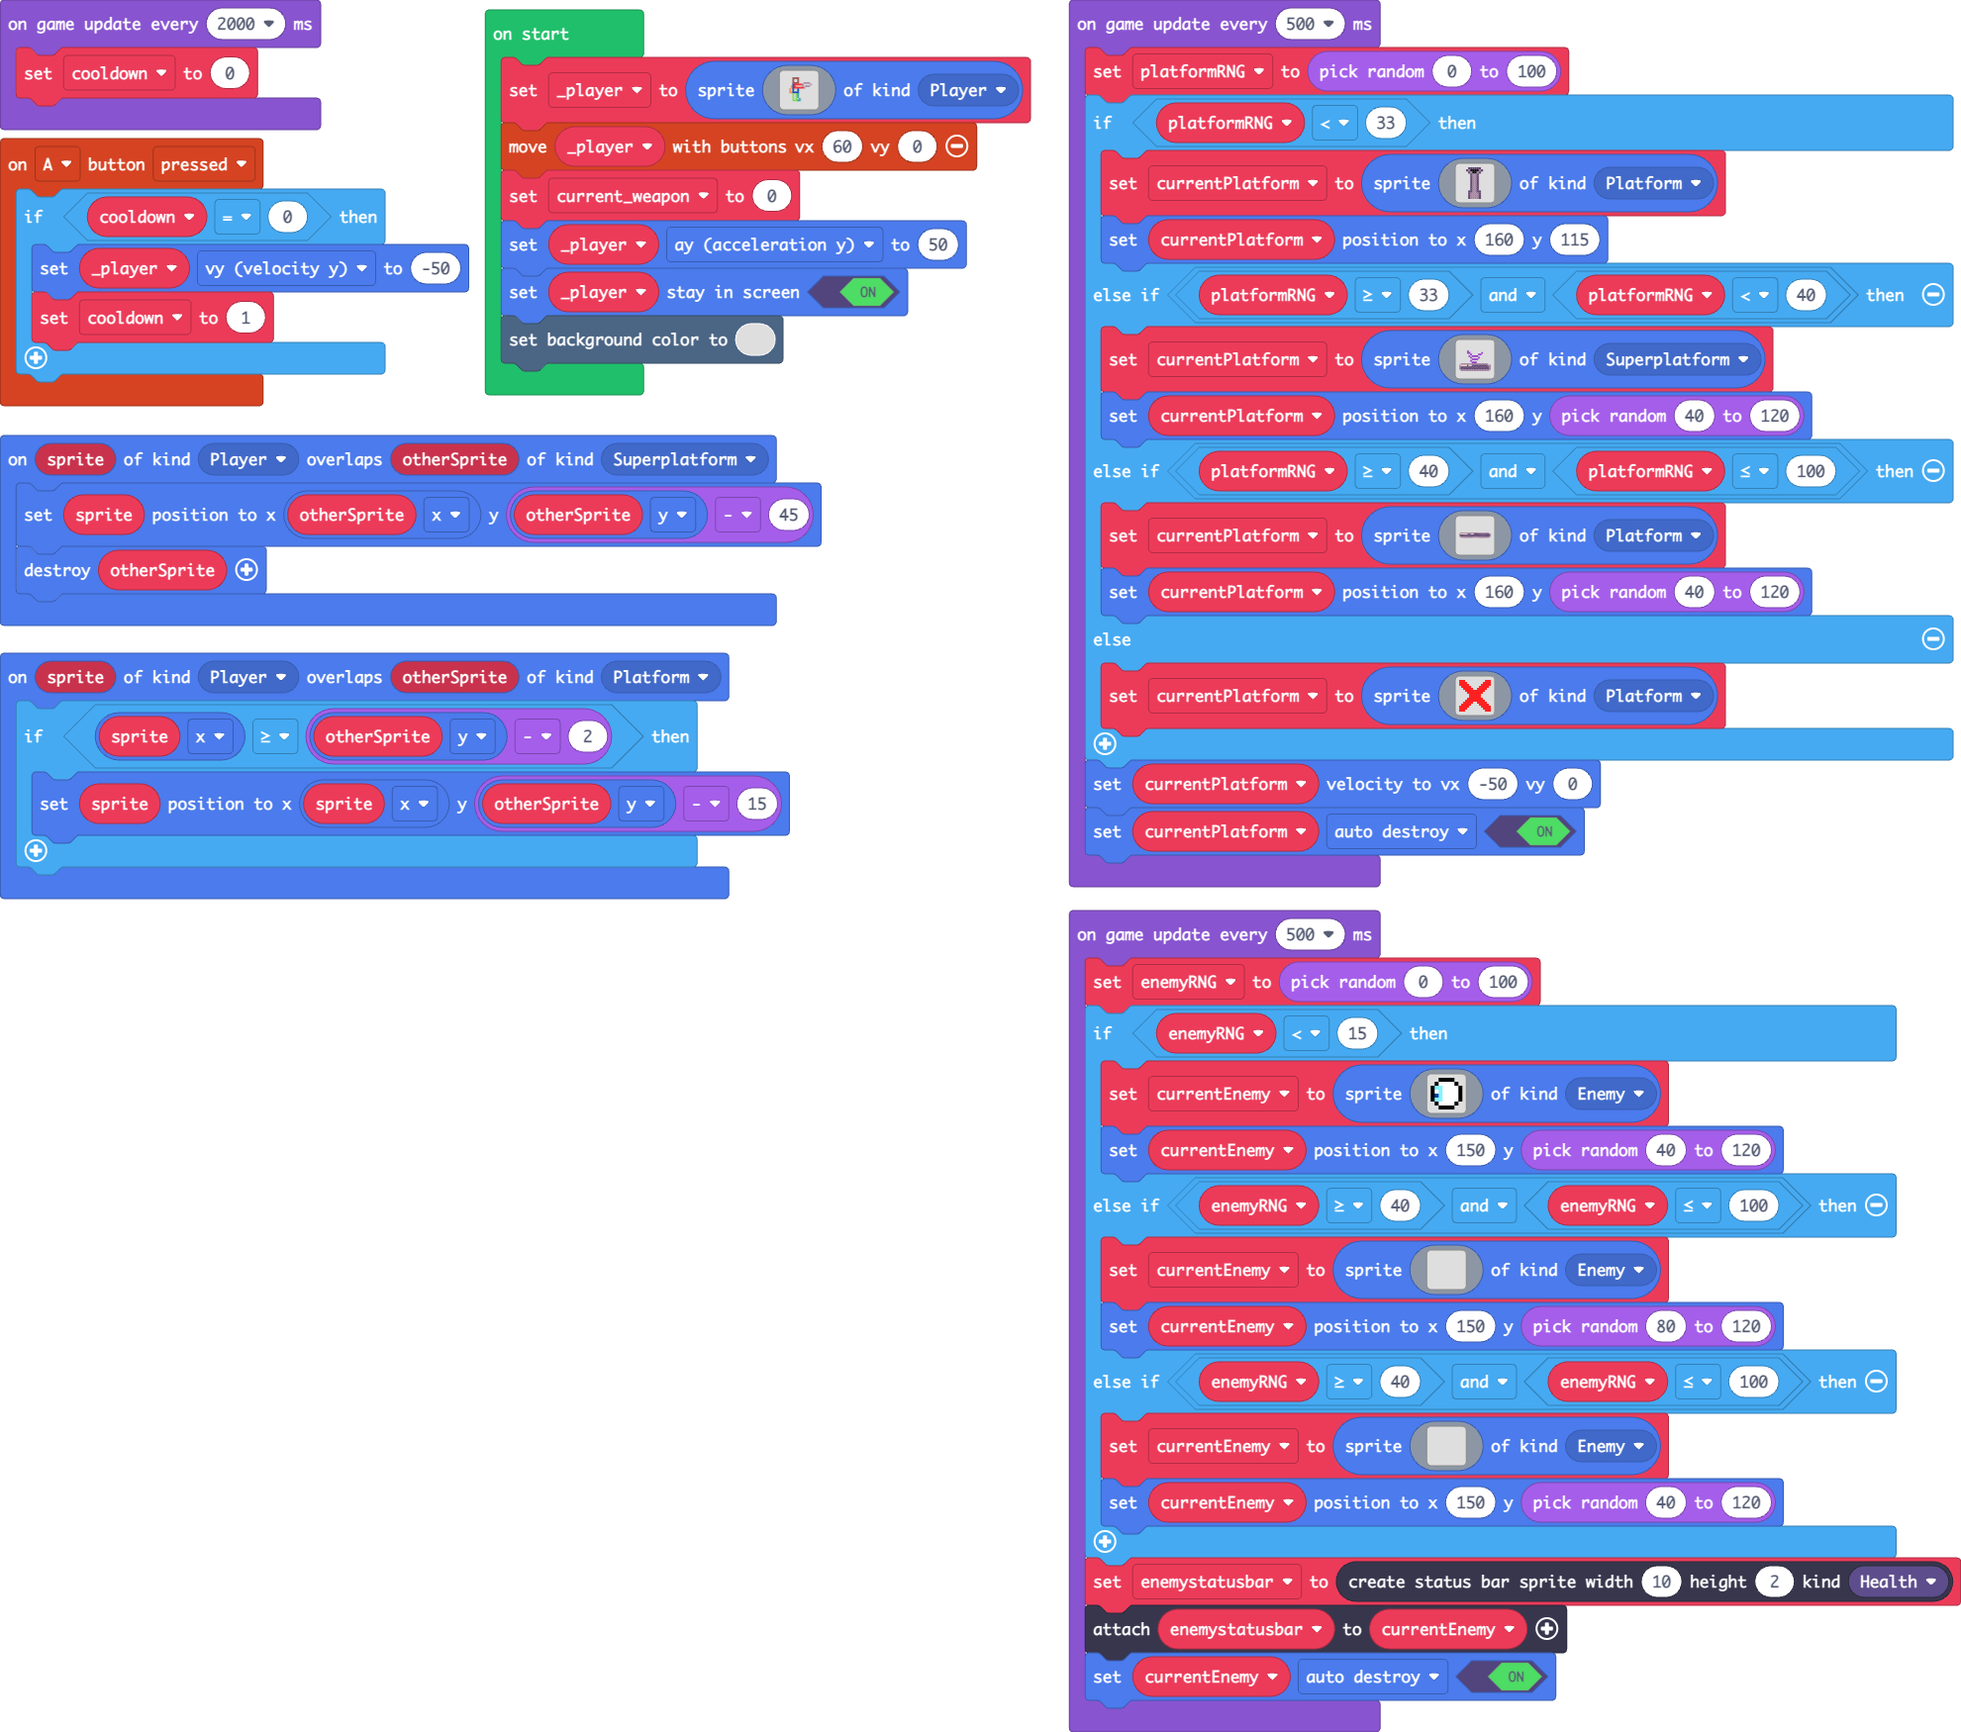
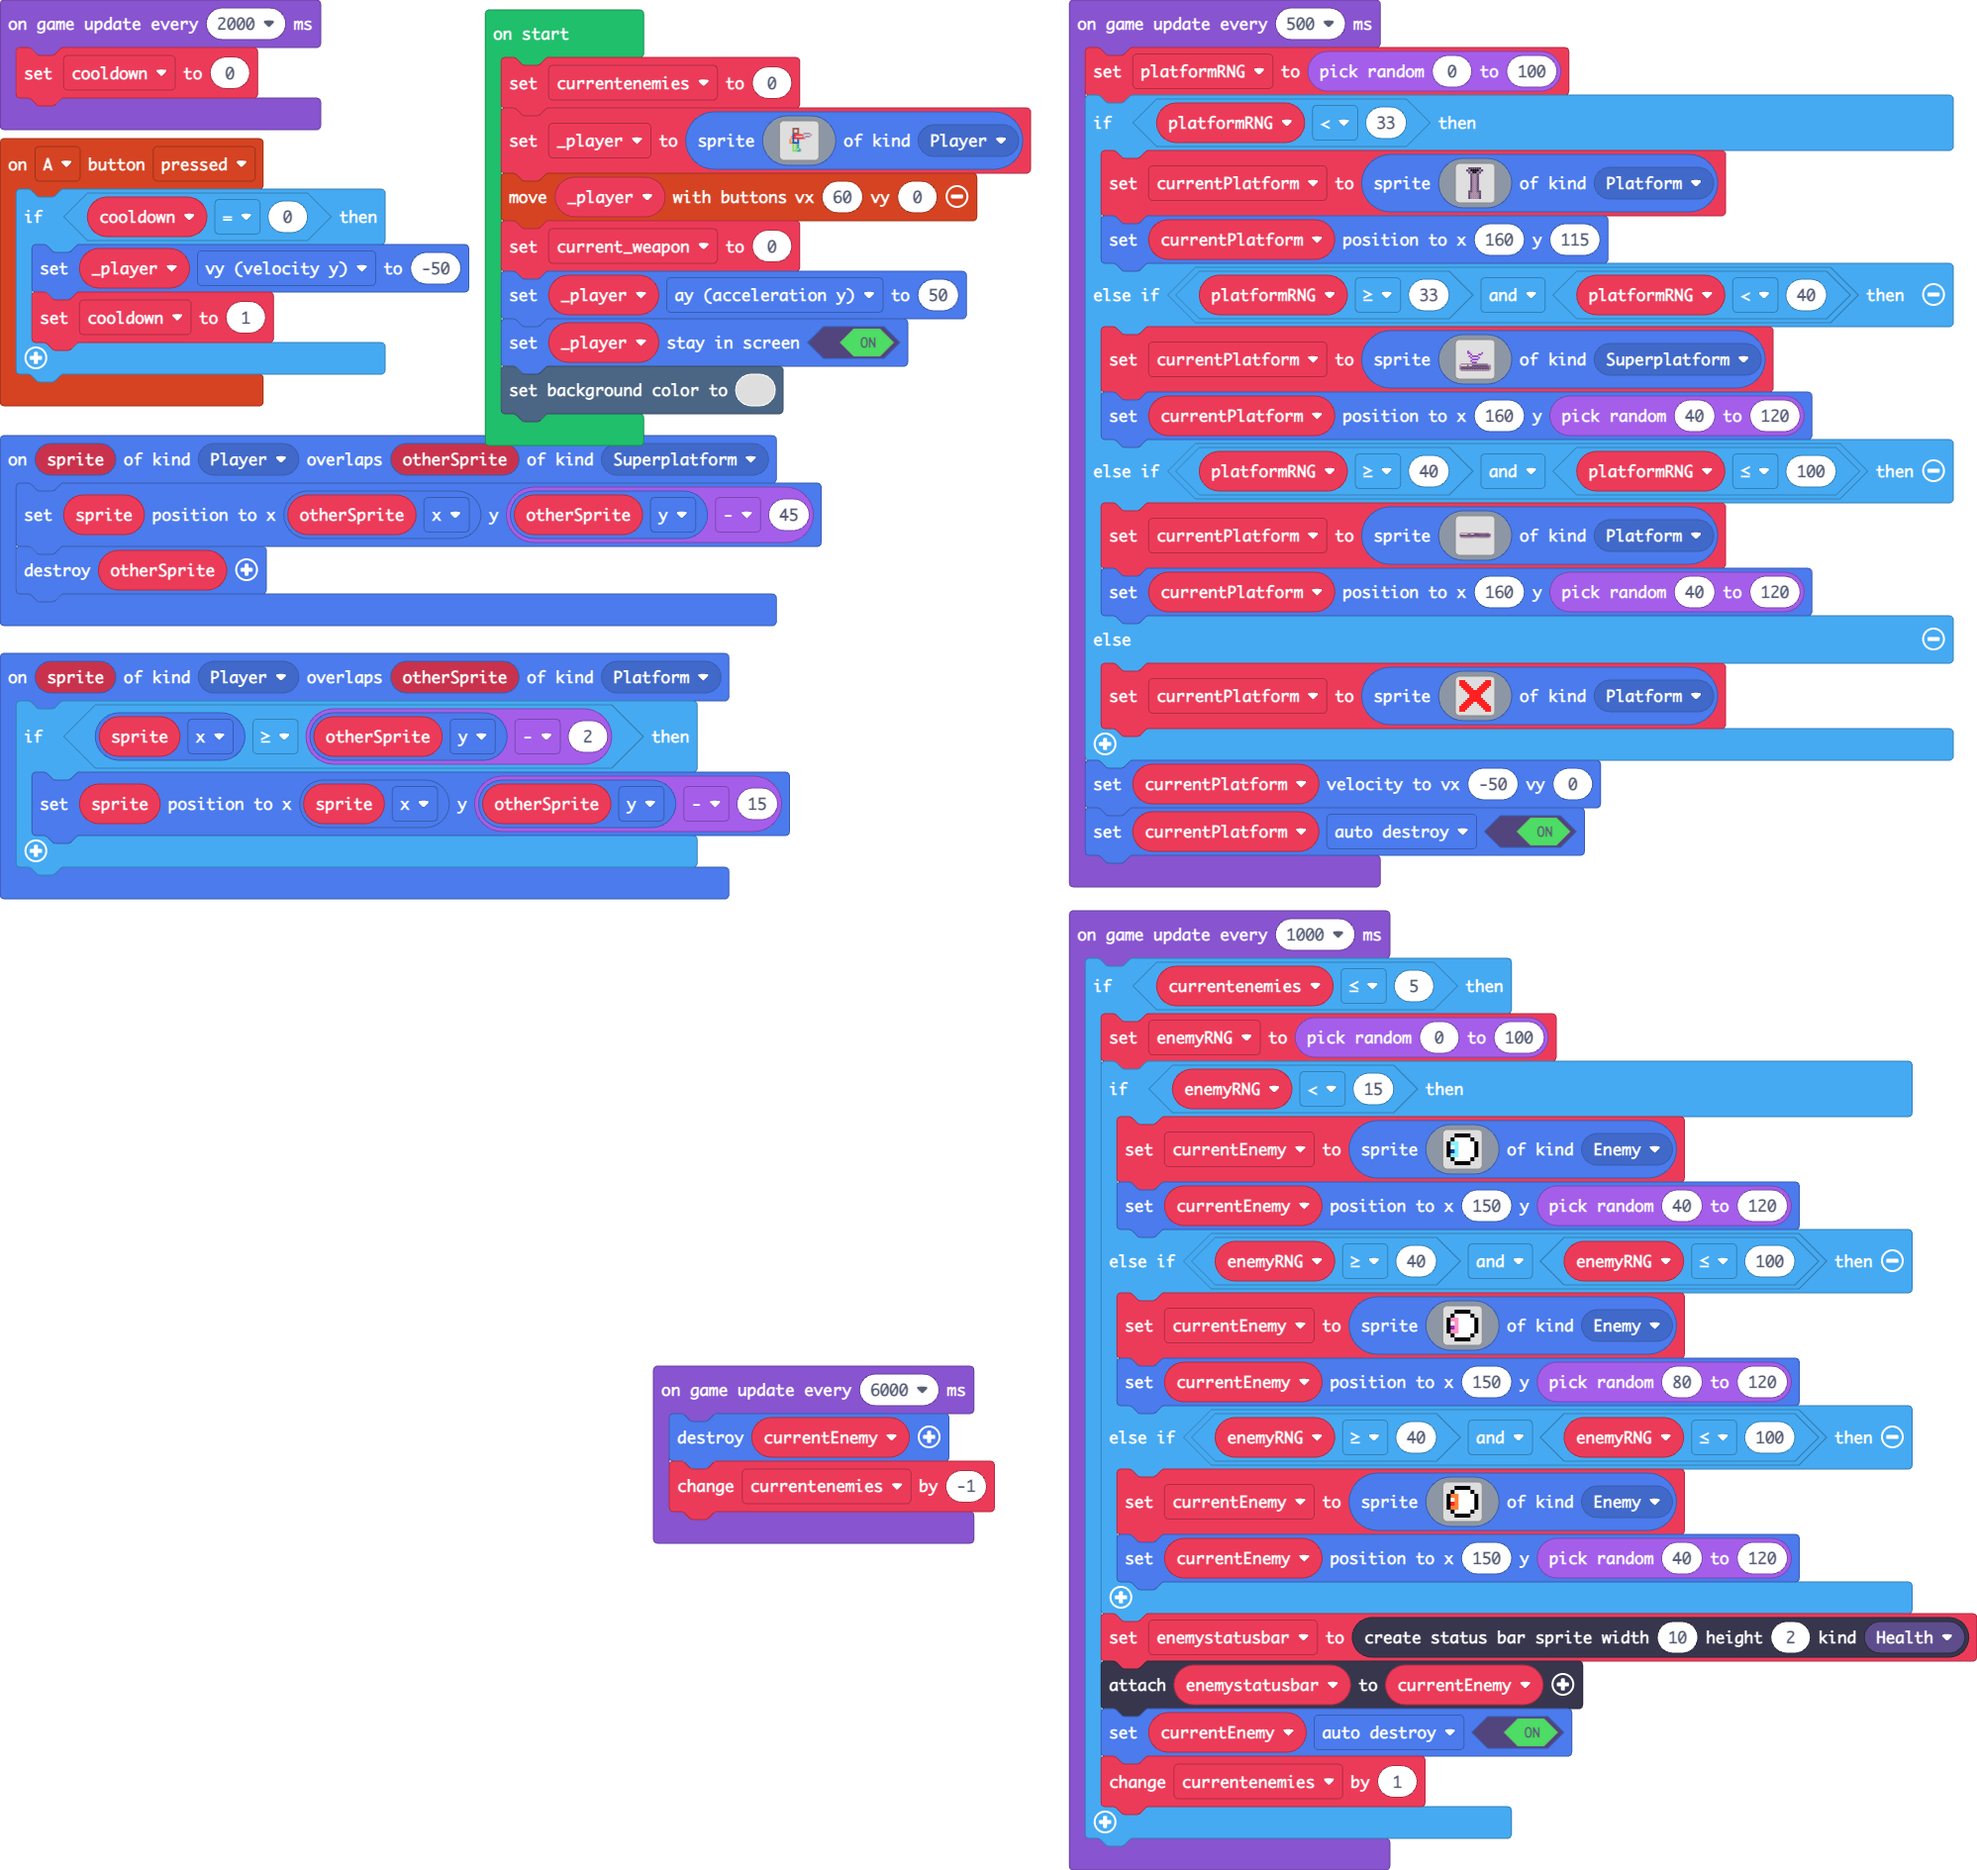
Update main.blocks, main.ts

diff --git a/main.ts b/main.ts
@@ -17,13 +17,14 @@ sprites.onOverlap(SpriteKind.Player, SpriteKind.Superplatform, function (sprite,
     sprite.setPosition(otherSprite.x, otherSprite.y - 45)
     sprites.destroy(otherSprite)
 })
+let currentPlatform: Sprite = null
+let platformRNG = 0
 let enemystatusbar: StatusBarSprite = null
 let currentEnemy: Sprite = null
 let enemyRNG = 0
-let currentPlatform: Sprite = null
-let platformRNG = 0
 let cooldown = 0
 let _player: Sprite = null
+let currentenemies = 0
 _player = sprites.create(assets.image`player_gun1`, SpriteKind.Player)
 controller.moveSprite(_player, 60, 0)
 let current_weapon = 0
@@ -32,6 +33,56 @@ _player.setStayInScreen(true)
 scene.setBackgroundColor(0)
 game.onUpdateInterval(2000, function () {
     cooldown = 0
+})
+game.onUpdateInterval(1000, function () {
+    if (currentenemies <= 5) {
+        enemyRNG = randint(0, 100)
+        if (enemyRNG < 15) {
+            currentEnemy = sprites.create(img`
+                . . f f f f . . 
+                . f 1 1 1 1 f . 
+                f 9 9 1 1 1 1 f 
+                f 1 9 1 1 1 1 f 
+                f 8 9 1 1 1 1 f 
+                f 9 9 1 1 1 1 f 
+                . f 1 1 1 1 f . 
+                . . f f f f . . 
+                `, SpriteKind.Enemy)
+            currentEnemy.setPosition(150, randint(40, 120))
+        } else if (enemyRNG >= 40 && enemyRNG <= 100) {
+            currentEnemy = sprites.create(img`
+                . . f f f f . . 
+                . f 1 1 1 1 f . 
+                f 3 3 1 1 1 1 f 
+                f 1 3 1 1 1 1 f 
+                f a 3 1 1 1 1 f 
+                f 3 3 1 1 1 1 f 
+                . f 1 1 1 1 f . 
+                . . f f f f . . 
+                `, SpriteKind.Enemy)
+            currentEnemy.setPosition(150, randint(80, 120))
+        } else if (enemyRNG >= 40 && enemyRNG <= 100) {
+            currentEnemy = sprites.create(img`
+                . . f f f f . . 
+                . f 1 1 1 1 f . 
+                f 4 4 1 1 1 1 f 
+                f 1 4 1 1 1 1 f 
+                f 2 4 1 1 1 1 f 
+                f 4 4 1 1 1 1 f 
+                . f 1 1 1 1 f . 
+                . . f f f f . . 
+                `, SpriteKind.Enemy)
+            currentEnemy.setPosition(150, randint(40, 120))
+        }
+        enemystatusbar = statusbars.create(10, 2, StatusBarKind.Health)
+        enemystatusbar.attachToSprite(currentEnemy)
+        currentEnemy.setFlag(SpriteFlag.AutoDestroy, true)
+        currentenemies += 1
+    }
+})
+game.onUpdateInterval(6000, function () {
+    sprites.destroy(currentEnemy)
+    currentenemies += -1
 })
 game.onUpdateInterval(500, function () {
     platformRNG = randint(0, 100)
@@ -49,63 +100,4 @@ game.onUpdateInterval(500, function () {
     }
     currentPlatform.setVelocity(-50, 0)
     currentPlatform.setFlag(SpriteFlag.AutoDestroy, true)
-})
-game.onUpdateInterval(500, function () {
-    enemyRNG = randint(0, 100)
-    if (enemyRNG < 15) {
-        currentEnemy = sprites.create(img`
-            . . f f f f . . 
-            . f 1 1 1 1 f . 
-            f 9 9 1 1 1 1 f 
-            f 1 9 1 1 1 1 f 
-            f 8 9 1 1 1 1 f 
-            f 9 9 1 1 1 1 f 
-            . f 1 1 1 1 f . 
-            . . f f f f . . 
-            `, SpriteKind.Enemy)
-        currentEnemy.setPosition(150, randint(40, 120))
-    } else if (enemyRNG >= 40 && enemyRNG <= 100) {
-        currentEnemy = sprites.create(img`
-            . . . . . . . . . . . . . . . . 
-            . . . . . . . . . . . . . . . . 
-            . . . . . . . . . . . . . . . . 
-            . . . . . . . . . . . . . . . . 
-            . . . . . . . . . . . . . . . . 
-            . . . . . . . . . . . . . . . . 
-            . . . . . . . . . . . . . . . . 
-            . . . . . . . . . . . . . . . . 
-            . . . . . . . . . . . . . . . . 
-            . . . . . . . . . . . . . . . . 
-            . . . . . . . . . . . . . . . . 
-            . . . . . . . . . . . . . . . . 
-            . . . . . . . . . . . . . . . . 
-            . . . . . . . . . . . . . . . . 
-            . . . . . . . . . . . . . . . . 
-            . . . . . . . . . . . . . . . . 
-            `, SpriteKind.Enemy)
-        currentEnemy.setPosition(150, randint(80, 120))
-    } else if (enemyRNG >= 40 && enemyRNG <= 100) {
-        currentEnemy = sprites.create(img`
-            . . . . . . . . . . . . . . . . 
-            . . . . . . . . . . . . . . . . 
-            . . . . . . . . . . . . . . . . 
-            . . . . . . . . . . . . . . . . 
-            . . . . . . . . . . . . . . . . 
-            . . . . . . . . . . . . . . . . 
-            . . . . . . . . . . . . . . . . 
-            . . . . . . . . . . . . . . . . 
-            . . . . . . . . . . . . . . . . 
-            . . . . . . . . . . . . . . . . 
-            . . . . . . . . . . . . . . . . 
-            . . . . . . . . . . . . . . . . 
-            . . . . . . . . . . . . . . . . 
-            . . . . . . . . . . . . . . . . 
-            . . . . . . . . . . . . . . . . 
-            . . . . . . . . . . . . . . . . 
-            `, SpriteKind.Enemy)
-        currentEnemy.setPosition(150, randint(40, 120))
-    }
-    enemystatusbar = statusbars.create(10, 2, StatusBarKind.Health)
-    enemystatusbar.attachToSprite(currentEnemy)
-    currentEnemy.setFlag(SpriteFlag.AutoDestroy, true)
 })
